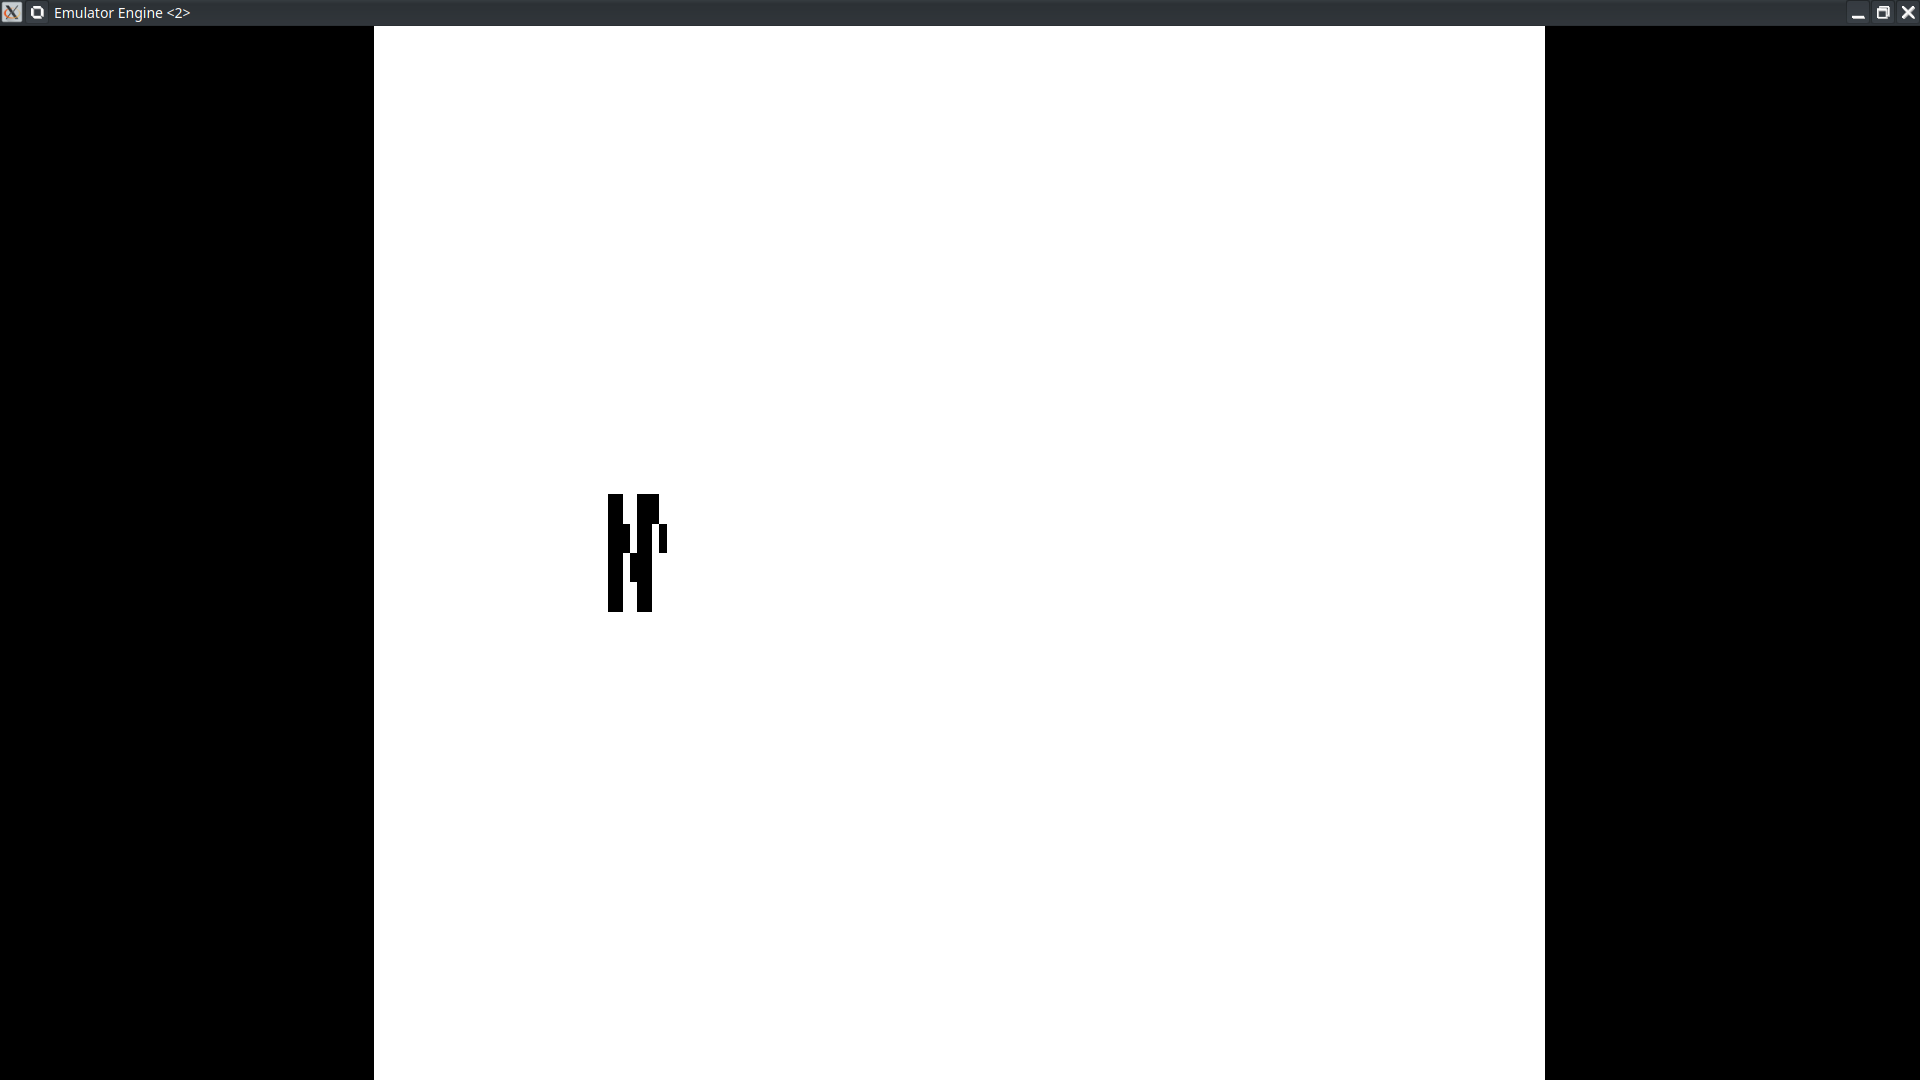
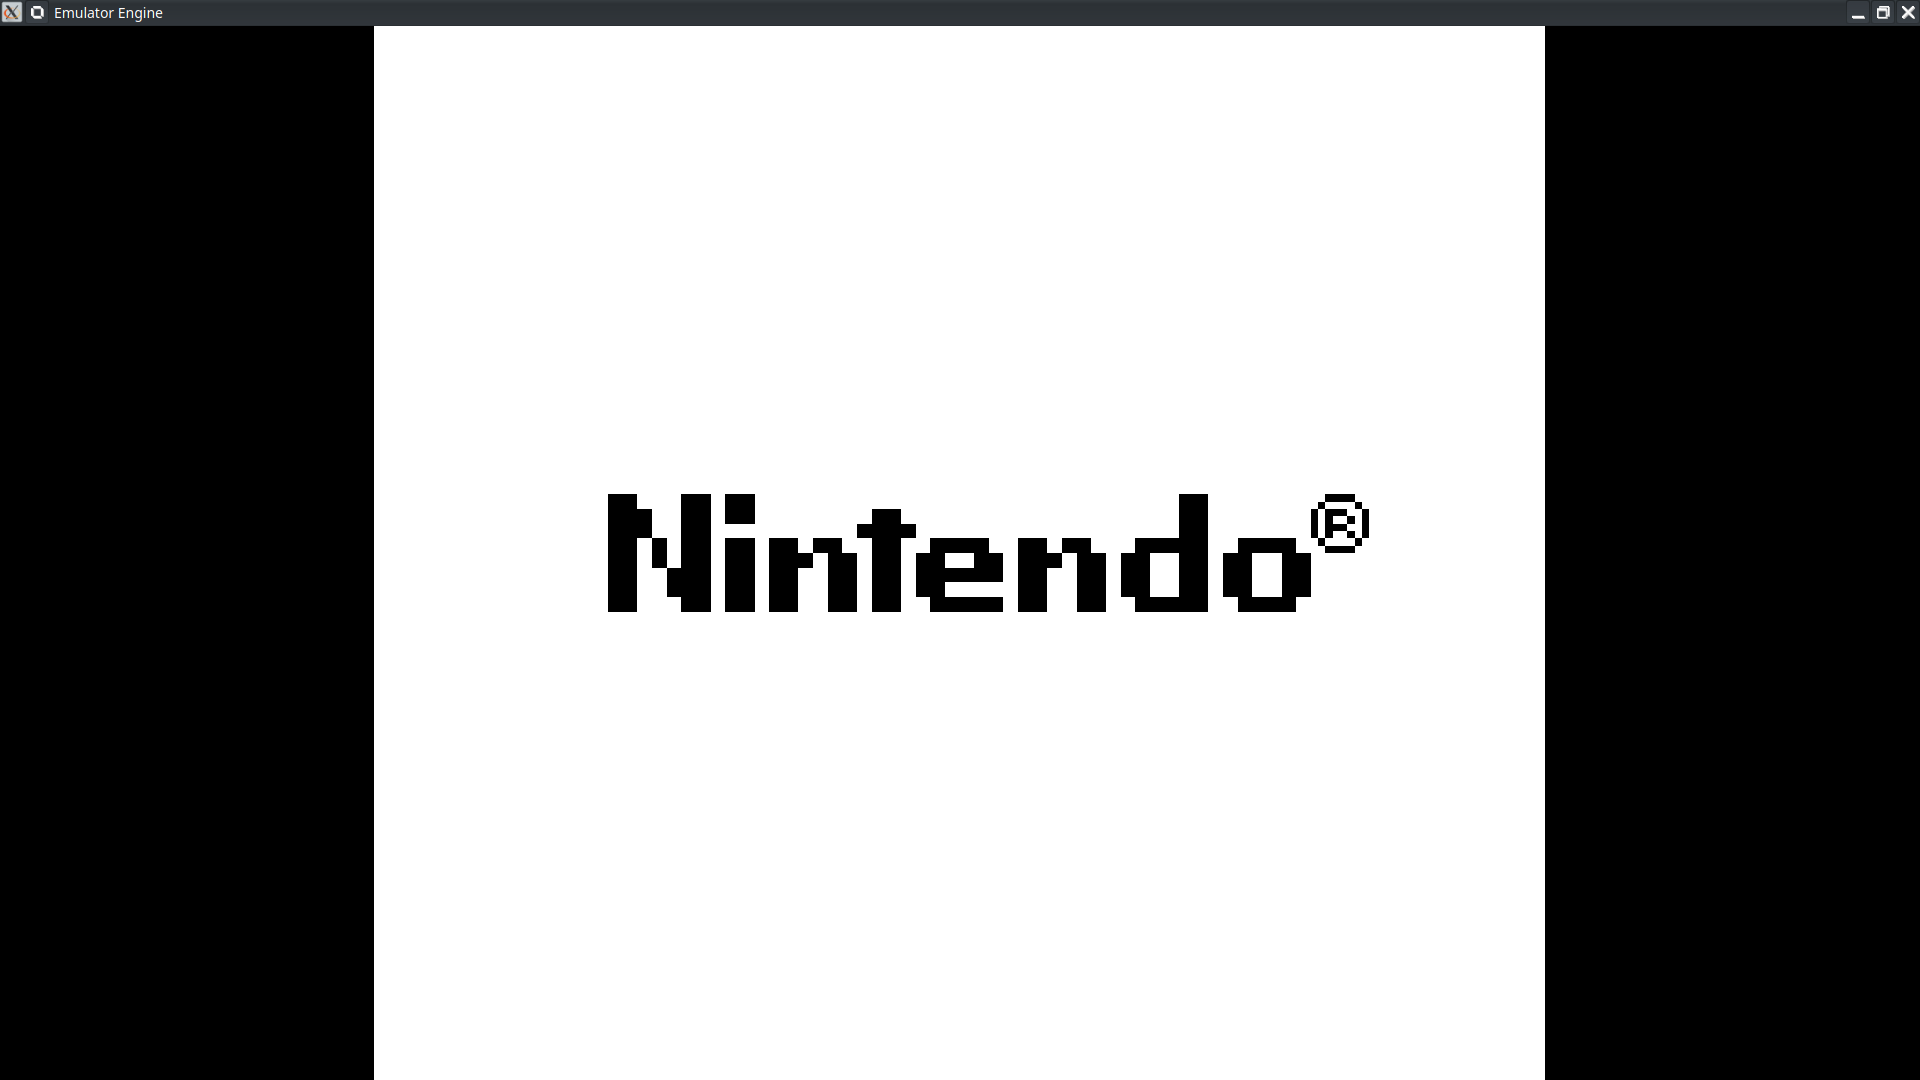
Changed github repo a bit.

Changed region(s): [[0.3125, 0.4583, 0.7188, 0.5806]]

diff --git a/menus/main_menu.cpp b/menus/main_menu.cpp
@@ -62,7 +62,7 @@ void MenuState::update(double dt)
         {
             Gameboy::Emu* state = new Gameboy::Emu();
             state -> loadBIOS("data/gameboy/bios/bios.gb");
-            state -> loadROM("data/gameboy/roms/03-op sp,hl.gb");
+            state -> loadROM("data/gameboy/roms/tetris.gb");
             stateM -> pushState(state);
         }
         else if(index == 4)

diff --git a/README.md b/README.md
@@ -22,9 +22,7 @@ After executing this, the executable should be in the */build/* file along with 
 - CHIP8 
     - might have some unsuported SCHIP or XOCHIP opcodes, open an issue if so.
 - Gameboy
-    - boot ROM checksum fails.
-    - boot ROM is not displayed properly.
-    - lots of opcodes missing.
+    - lots of opcodes missing. Games can not be run at the moment without crashing.
 - NES (soon)
 
 ## Screenshots from supported platforms:
